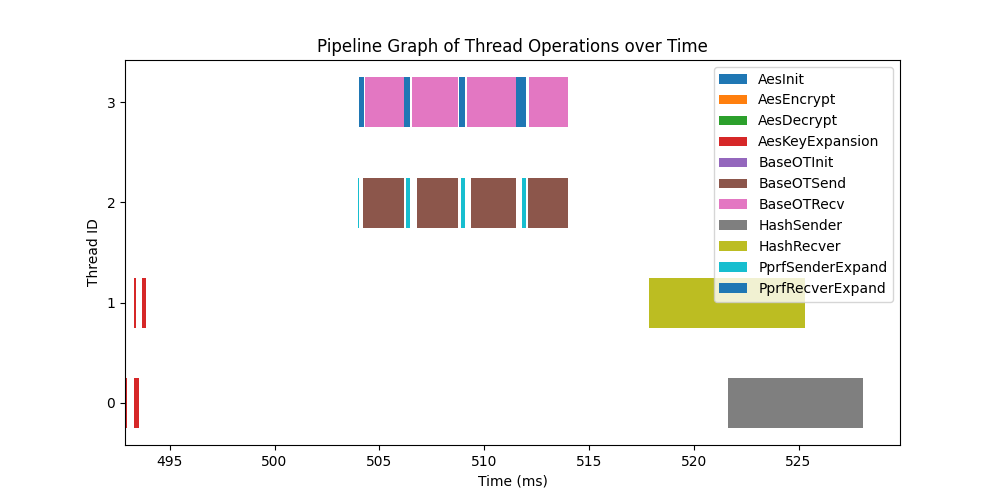
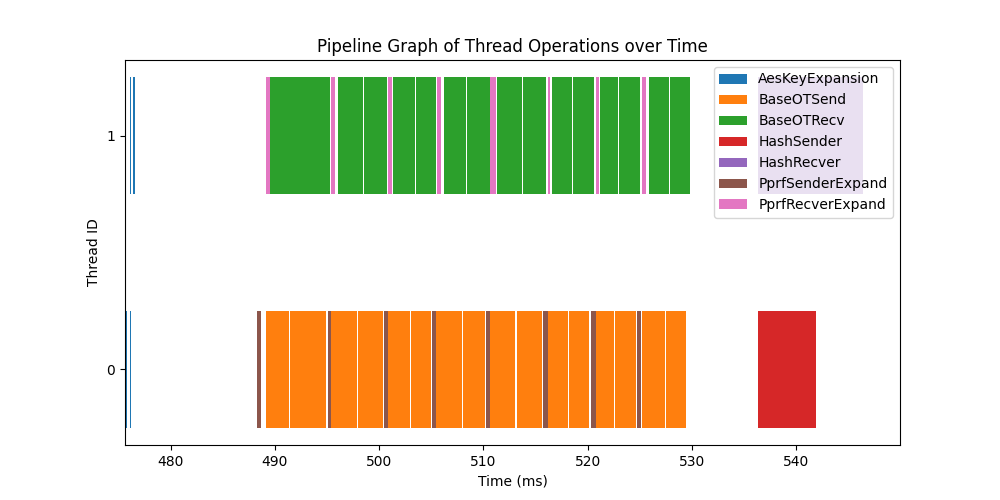
all trees expand parallel

diff --git a/plotter.py b/plotter.py
@@ -1,7 +1,8 @@
 import sys
 import matplotlib.pyplot as plt
 
-hideEvents = ['PprfSender', 'PprfRecver']
+hideEvents = ['PprfSender', 'PprfRecver', 'AesEncrypt', 'AesDecrypt',
+  'AesInit', 'BaseOTInit']
 
 def plot_pipeline(filename):
   eventList = {}
